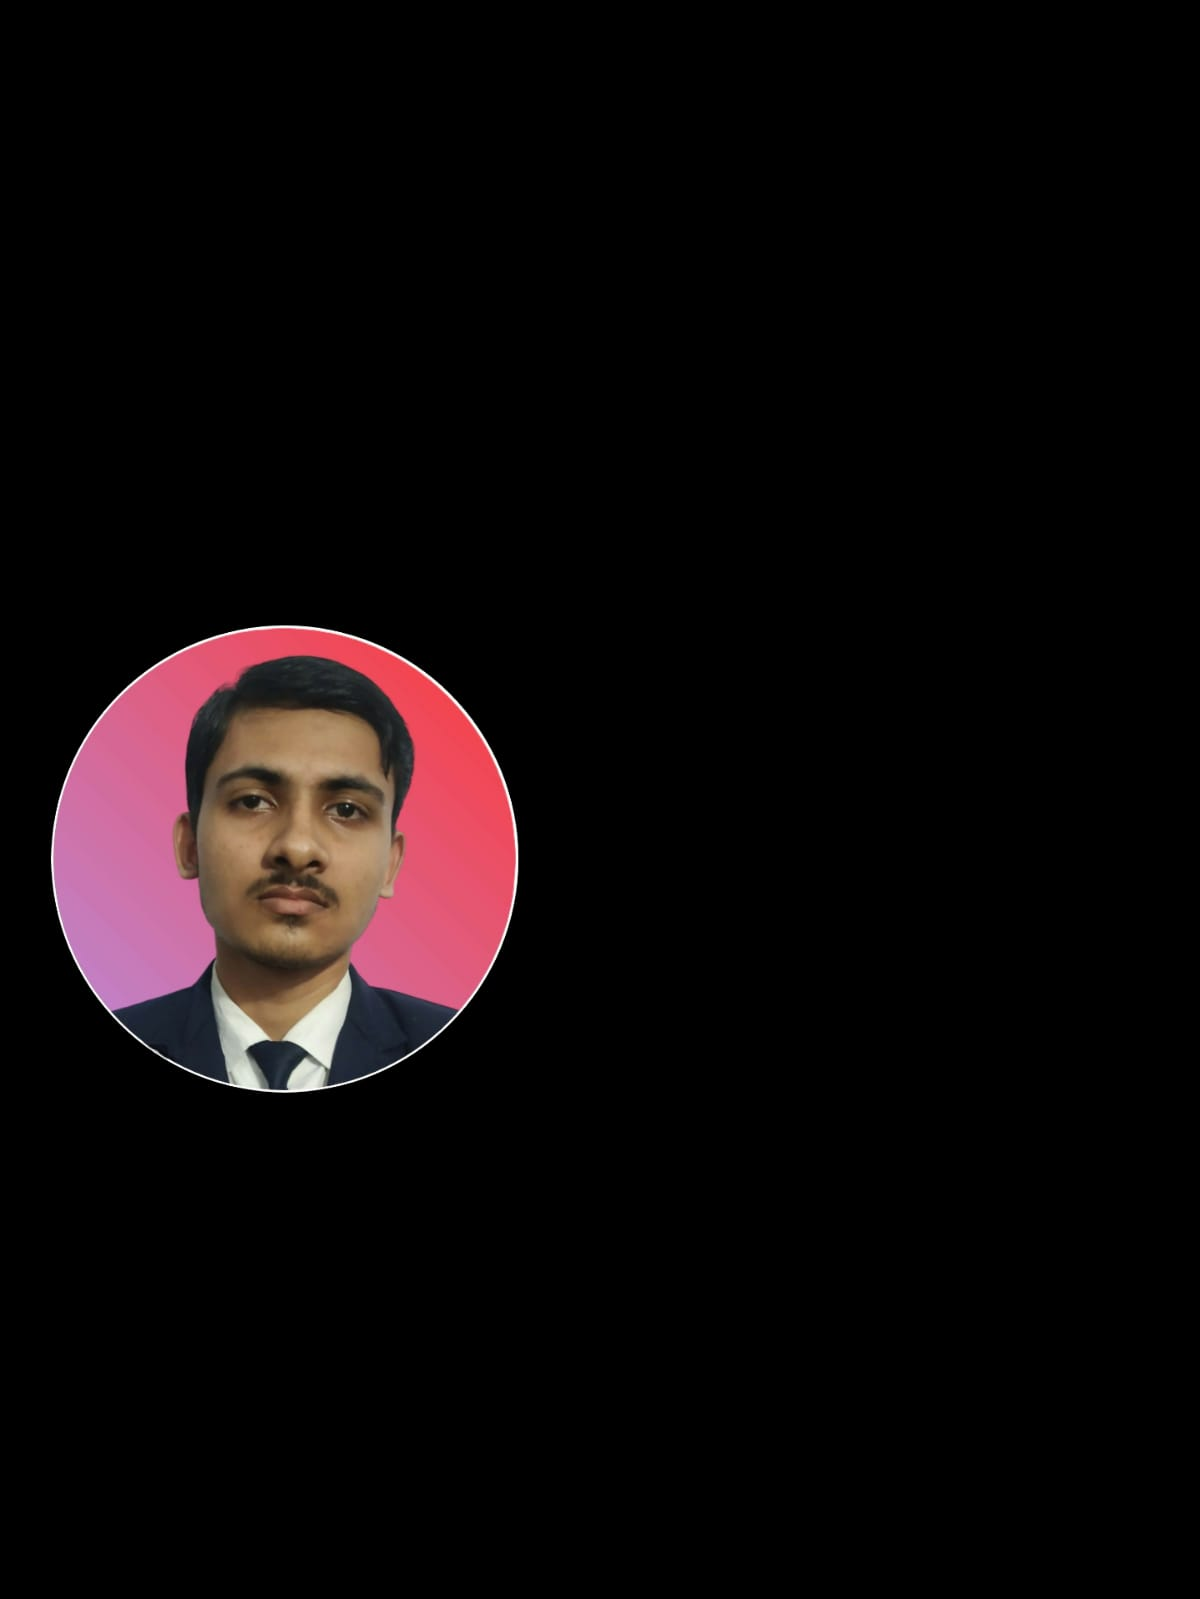
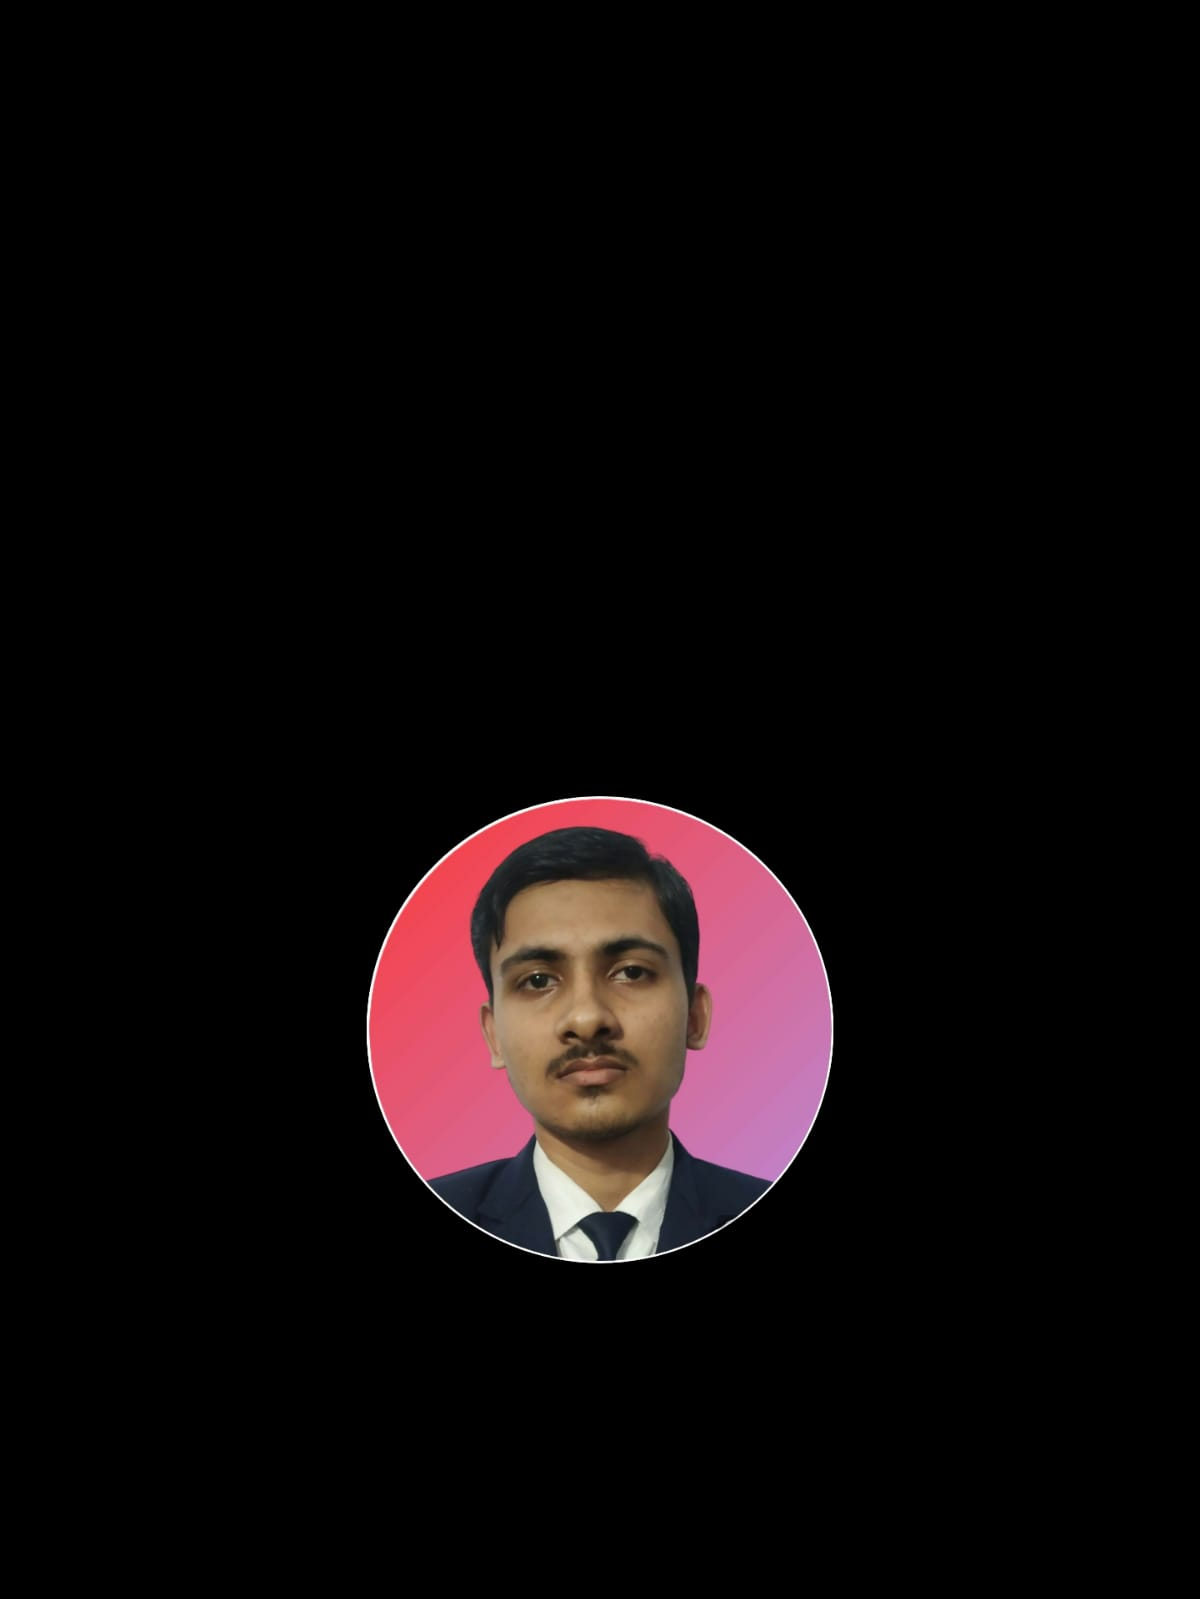
img uodate

Changed region(s): [[0.0308, 0.3677, 0.7092, 0.7967]]

diff --git a/style.css b/style.css
@@ -394,7 +394,7 @@ nav .fa-solid{
         background-image: url(imgs/phone-background.png);
     }
     .header-text{
-        margin-top: 100%;
+        margin-top: 25%;
         font-size: 16px;
     }
     .header-text h1{
